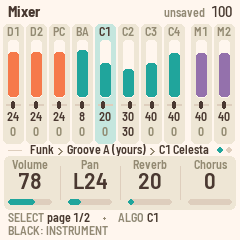
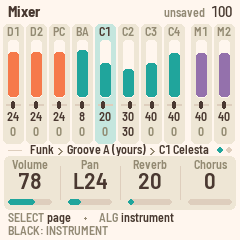
Manual: the cursor and the playhead, Band's BAR / BEAT, a melody's place; figures re-shot
Pages and dots: the cursor (thick coral) and the playhead (teal), the place in words, the edit's flash. Progression's
numbers on coral and "bar 1 · beat 3"; Song's "section 3 of 6" and the section playing filled teal; Band's cursor
(KNOB 2 Bar, KNOB 3 Beat) with a new figure; Sound with a melody: its section's bars, bar 1 ringed; undo goes there.
The page-by-page table and the README's SEQ line. Every figure re-shot from the cheatsheet scenario (they still had
the encoder line's old words).

Claude-Session: https://claude.ai/code/session_01KrDAEHZwidK2Hjis9LandD

Changed region(s): [[0.4083, 0.875, 0.7292, 0.9333], [0.2917, 0.875, 0.3792, 0.9333]]

diff --git a/MANUAL.md b/MANUAL.md
@@ -93,7 +93,8 @@ next thing.
 - **HOME**: Home; **SELECT** then turns to the Song pages. Held: the shortcuts (keys, SELECT, PRESETS, REC, PLAY); in a
   question, no.
 - **ARP**: Progression (the chords: bar, beat, root, type), page 2 its length, beats, bass and name.
-- **SEQ**: Band (the groove's notes, instrument by instrument), page 2 the groove's length and name.
+- **SEQ**: Band (the groove's notes, instrument by instrument; bar, beat: the cursor), page 2 the groove's length and
+  name.
 - **EDIT**: Sound (the instrument's sound and range), page 2 its high key and channel.
 - **LFO**: Mixer, page 2 its tone.
 - **FX**: Effects (reverb and chorus).
@@ -191,6 +192,13 @@ The screen has these bands:
   "REC: STOP".
 
 **Messages** such as "SAVED" or "NEXT GROOVE B" take over the header for a second or so.
+
+**The cursor and the playhead.** Where the knobs and keys write is outlined in thick coral: a chord's cell
+(Progression), a section (Song), a line down the instruments (Band), a melody's first bar (Sound with M1 or M2), with
+the place in words beside it ("bar 2 · beat 3", "section 3 of 6"). What plays is filled teal (a teal line on Band).
+Both show at once: a coral outline round a teal fill is the cursor on the beat playing. Whatever you change flashes
+coral for half a second where it lands: a chord, a section, an instrument's row, a bar of notes just recorded, and
+what undo or redo brings back.
 
 ### The instruments
 
@@ -367,8 +375,8 @@ See [Writing a song](#writing-a-song) for the whole path.
 
 ![The Progression page](docs/img/manual/progression.png)
 
-- **Progression** (ARP): its bars, a chord a beat, and the cursor (the coral ring; the tag says where: "P9 ·
-  BAR 1.3"). KNOB 1–4: **BAR** and **BEAT** move the cursor (BAR keeps the beat; the grid scrolls to it; while
+- **Progression** (ARP): its bars, a chord a beat, and the cursor (the thick coral ring; its bar and beat numbers on
+  coral, "bar 1 · beat 3" under the grid, and the tag: "P9 · BAR 1.3"). While playing, the beat playing is teal. KNOB 1–4: **BAR** and **BEAT** move the cursor (BAR keeps the beat; the grid scrolls to it; while
   REC writes, one bar past the end, where a chord makes the progression longer), **ROOT** and **TYPE** change
   the chord there (TYPE one below maj: "·", no chord there). **OCT−** / **OCT+** move the cursor a beat. Page 2:
   **LENGTH**, **BEATS** (a bar's; each chord stays in its bar: a chord on bar 2 beat 1 is still on bar 2 beat 1),
@@ -389,7 +397,8 @@ See [Writing a song](#writing-a-song) for the whole path.
   section it sets that section's progression. Black keys 1–8 mute the section's instruments, 9 and 10 its melodies
   M1 and M2 (the squares after the gap in MUTE: filled plays, a coral outline is muted). KNOB 1–4 SECTION, PROG,
   GROOVE (A or B, "+ fill" for a fill into the next section), REPEAT; page 2 TRANSPOSE (the section's own, on top of
-  the song's); page 3 INTRO, ENDING, AT END, SONG. While the song plays, the section playing is tinted teal; during
+  the song's); page 3 INTRO, ENDING, AT END, SONG. Under the sections, "section 3 of 6" says where the cursor (the coral ring) is. While the song plays, the
+  section playing is filled teal (inside the ring when the cursor follows it); during
   its Intro, a fill and its Ending the line under the sections says so ("Intro · then section 1", "Fill AB · into
   section 3", "Ending · then the stop").
 - **Home** says where the band is: "progression bar 2.3 / 4" (or "groove bar 1.1 / 2" with no progression);
@@ -415,7 +424,11 @@ Polly records into the selected instrument of the groove (or extra) playing, goi
 ![Recording into C1](docs/img/manual/recording.png)
 
 1. Press **SEQ** for the Band page. It shows the eight instruments of the groove playing, with their
-   notes, and the playhead.
+   notes, the playhead (a teal line) and the cursor: a coral line down the instruments, its place under it
+   ("bar 2 · beat 3"). **KNOB 2** (Bar) and **KNOB 3** (Beat) move it. (Editing notes there is still to come.)
+
+   ![The Band page](docs/img/manual/band.png)
+
 2. Turn **ALGORITHM** to pick the instrument. The keys play its sound.
 3. Press **REC**. The red dot shows in the header and PLAY turns red. The screen shows the groove as
    bars, the instrument's notes in each: "REC C1 · starts with PLAY". The footer says "REC: STOP".
@@ -515,6 +528,9 @@ Notes go into the section playing, at their place on the Band page's grid. You h
 the section plays. Recording again over a section (a punch in) adds notes to what's there; to replace a
 section's melody, erase it first (**SEL**: the list opens on **ERASE M1 IN SECTION n**), then record.
 
+- **Where it is:** with M1 or M2 picked, the Sound page shows the section of the Song page's cursor as bars with the
+  melody's notes (the other melody's dim), and the song's sections under them. Stopped, that section's bar 1 is ringed
+  coral, "section 2 · bar 1": where PLAY and REC start. Playing, the bar playing is teal ("section 2 · bar 3.1").
 - **Punch in:** on the Song page, move the cursor (SECTION) to the section; then on **EDIT**, **REC** and **PLAY**:
   the song starts at that section (REC's screen rings it) and records from its first downbeat. (Or, stopped,
   REC while free or on a progression puts the song on first.)
@@ -621,7 +637,8 @@ and Polly says "SHARED GROOVE KEPT GROOVE B".
 
 Hold **HOME** and press **REC** to undo; **HOME** + **PLAY** redoes (neither records nor starts). The header
 says what: "UNDO P9 CHORD", "UNDO SECTION 3", "UNDO TAKE M1", "UNDO PASS C1", "UNDO CLEAR PROG", "REDO C1 SOUND",
-or "NOTHING TO UNDO". It covers the song you're on: its progressions (chords, length, name, loading, clearing,
+or "NOTHING TO UNDO", and what came back flashes coral: the Progression page's cursor goes to its chord, the Song
+page's cursor to its section (a melody's notes: their section). It covers the song you're on: its progressions (chords, length, name, loading, clearing,
 copying), its sections and settings (style, tempo, TRANSPOSE, mutes, the melodies' sounds), its melody notes (a
 take is one step; erasing, copying a section's), and its grooves as you change them (sounds, mixer, types, ERASE
 INSTRUMENT, CLEAR GROOVE A, BACK TO STYLE, and each pass of a recording). A step is what you changed before a
@@ -800,7 +817,7 @@ on every page. SELECT turns a button's pages.
 | Song 3 | HOME, SELECT ×3 | Intro | Ending | At end | Song | The next section |
 | Progression | ARP | Bar | Beat | Root | Type | The next progression |
 | Progression 2 | ARP, SELECT | Length | Beats | Bass | Name | The next progression |
-| Band | SEQ | Grid | | | Mute | What the groove plays |
+| Band | SEQ | Grid | Bar (the cursor) | Beat (the cursor) | Mute | What the groove plays |
 | Groove length | SEQ, SELECT | Bars | Beats | Letter | Character | What the groove plays |
 | Sound | EDIT | Program | Type | Low (a melody: none) | High (a melody: Velocity) | Program family |
 | Sound 2 | EDIT, SELECT | High key (a melody: none) | Channel | | | |

diff --git a/README.md b/README.md
@@ -48,7 +48,7 @@ then follow Polly's 16 styles on the Style knob, marked "QY".
 | HOME held | the shortcuts on screen: + white key 1-16 a progression; + black key 1-5 Intro, Groove A, Groove B, Fill, Ending (from the next bar); + SELECT the tempo; + PRESETS the song; + REC undo, + PLAY redo |
 | HOME | Home: KNOB 1 style, 2 tempo, 3 transpose, 4 prog ("–": free, the band follows your chords); SELECT: Song (sections: prog, groove, repeat, mutes, transpose; intro, ending, at end, song) |
 | ARP | Progression: its chords, a chord a beat (bar, beat, root, type); page 2 length, beats, bass, name |
-| SEQ | Band (the groove's 8 instruments; KNOB 1 the grid, KNOB 4 mute: the song's, every groove); page 2 Groove length (its length, beats, name) |
+| SEQ | Band (the groove's 8 instruments; KNOB 1 the grid, KNOB 2, 3 the cursor's bar and beat, KNOB 4 mute: the song's, every groove); page 2 Groove length (its length, beats, name) |
 | EDIT | Sound: program, type, range; page 2 high key, channel |
 | LFO | Mixer (volume, pan, sends); page 2 tone (bright, reso) |
 | FX | Effects (reverb, chorus) |
